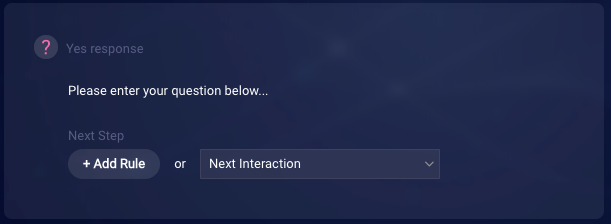
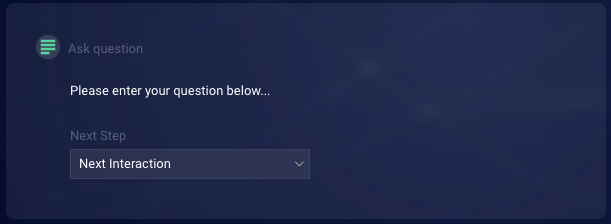
BA-4395 Updates due to Dialog Editor v 2.0

diff --git a/pages/documents/ConversationalAI/ConversationBuilder/BestPractices/reusableComponents.md b/pages/documents/ConversationalAI/ConversationBuilder/BestPractices/reusableComponents.md
@@ -53,10 +53,12 @@ To avoid repeatedly having to build this set of interactions within every dialog
     <img style="width:600px" src="img/ConvoBuilder/reusableResolveAndCloseDialog1a.png">
     
     <img style="width:600px" src="img/ConvoBuilder/reusableResolveAndCloseDialog1b.png">
-    
-    In the case of a "no" answer, the [Close conversation](conversation-builder-dialogs-dialog-basics.html#close-the-conversation) next step will cause the bot to end the conversation.
+     
+    In the case of a "no" answer, the [Close conversation](conversation-builder-dialogs-dialog-basics.html#close-the-conversation) next step causes the bot to end the conversation.
 
-    To configure the rules, consider using reusable "yes" and "no" intents, as described in the [first section](conversation-builder-best-practices-reusable-components.html#create-reusable-yes-and-no-intents) on this page.
+    In the case of a "yes" answer, the "Please enter your question below" text statement elicits a user response that is caught by the NLU.
+
+    To configure the yes/no rules, consider using reusable "yes" and "no" intents, as described in the [first section](conversation-builder-best-practices-reusable-components.html#create-reusable-yes-and-no-intents) on this page.
 
 3. Go to another dialog in your bot, and, where it reaches its logical end and you want to confirm resolution with the consumer, explicitly set the **Next Step** to be this Confirm Resolution and Close dialog's "Is there anything else?" question.
 
